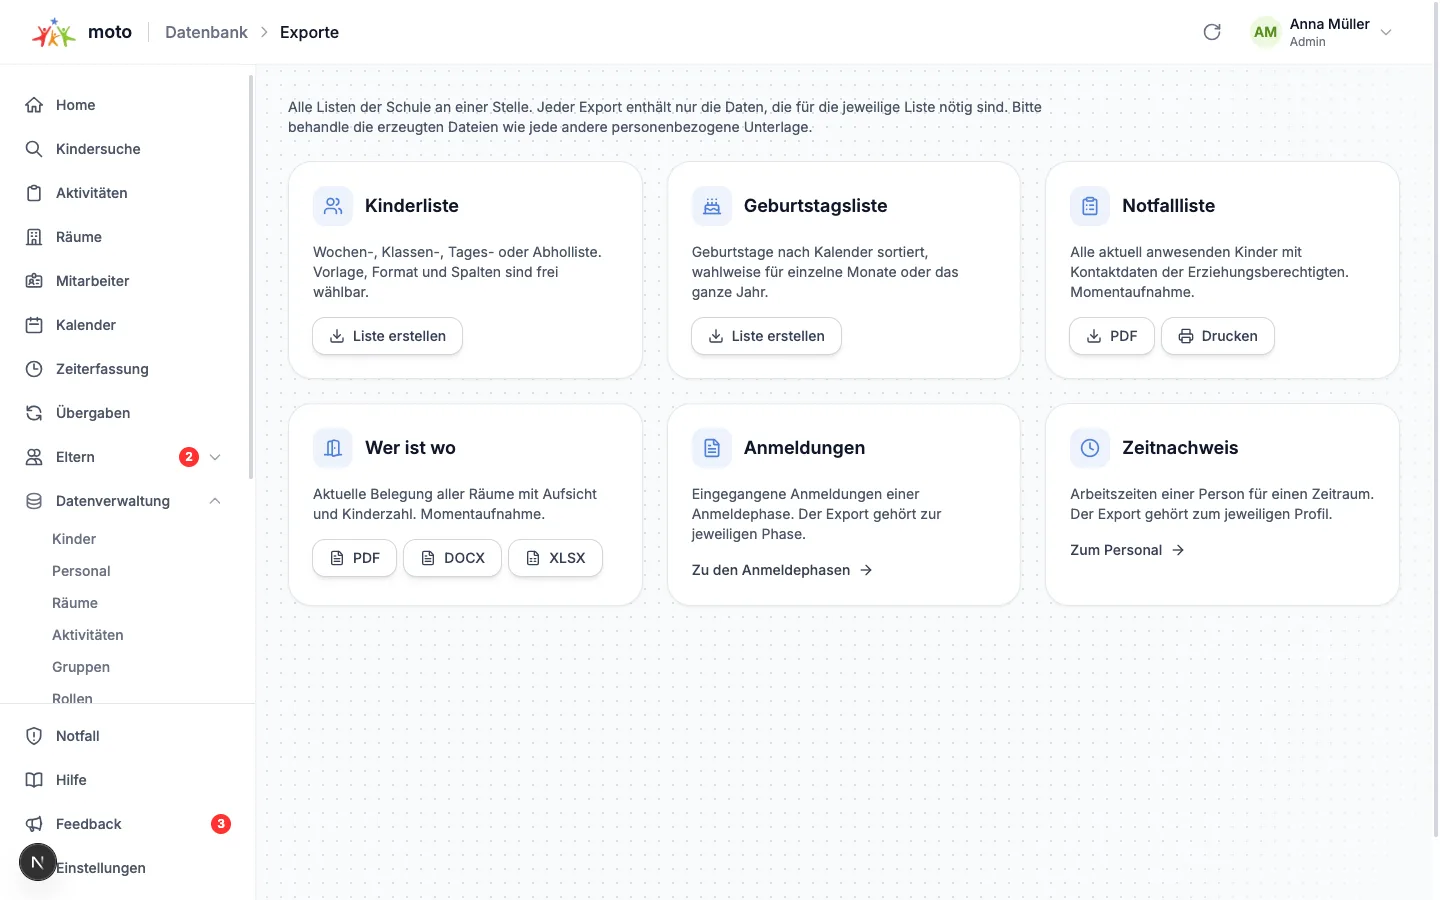
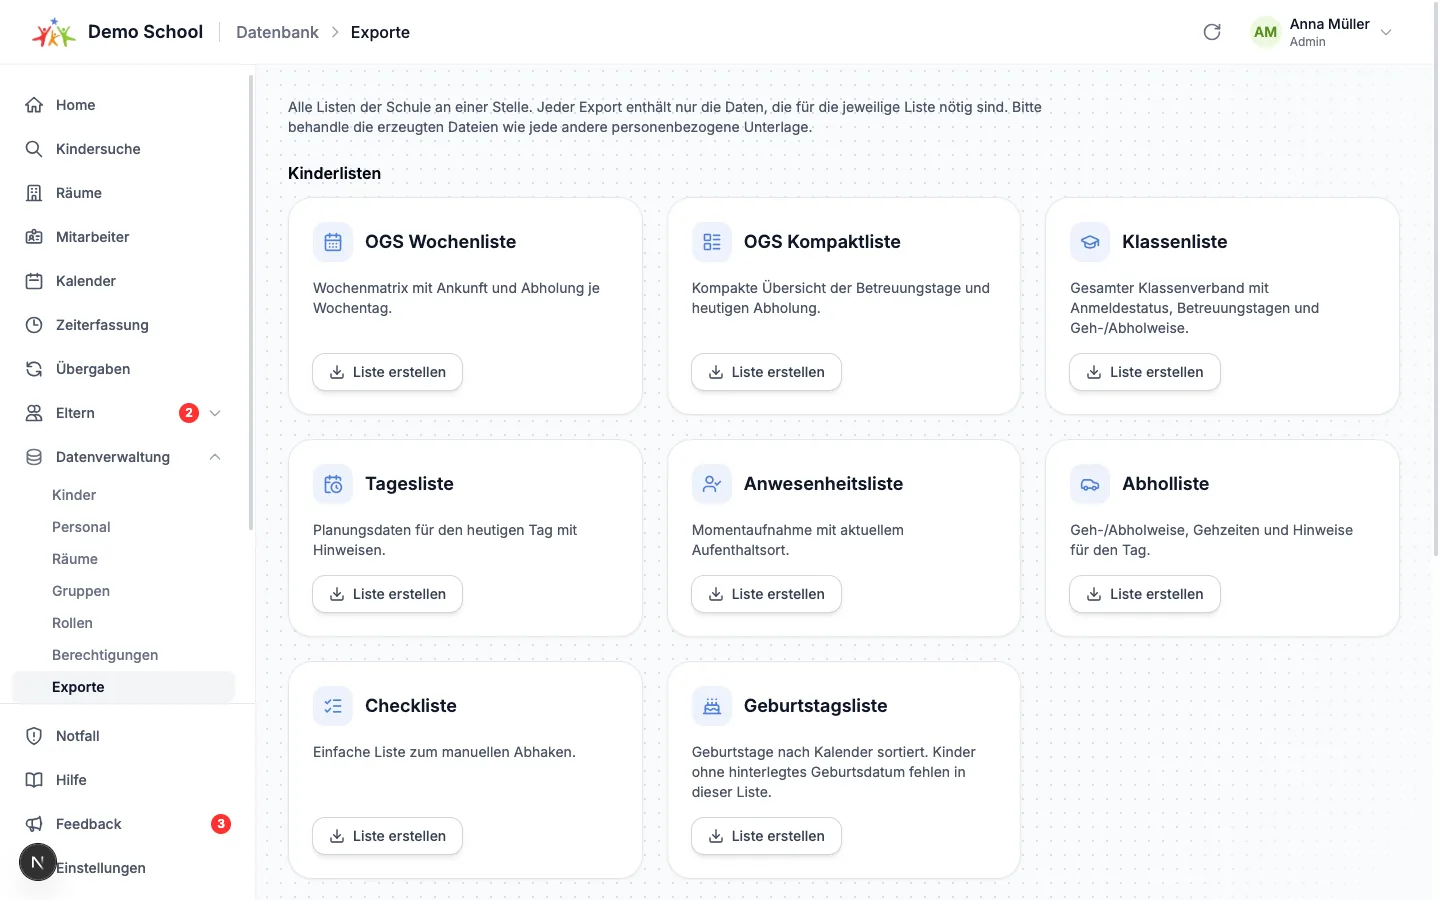
docs(help): update the export guide for the sectioned page
The listen-exportieren step now describes the per-list cards under the
Kinderlisten / Momentaufnahmen / Auf anderen Seiten sections, and the
screenshot is re-captured to match.

diff --git a/frontend/src/components/help/guide-data.ts b/frontend/src/components/help/guide-data.ts
@@ -879,11 +879,10 @@ export const appChapters: readonly GuideChapter[] = [
           "Der zentrale Einstieg für alle Listen der Schule: Kinderlisten, die Geburtstagsliste, die Notfallliste und die Raumbelegung - an einer Stelle statt verstreut über die einzelnen Seiten.",
         steps: [
           "`Datenverwaltung` -> `Exporte` öffnen.",
-          "`Kinderliste` erstellt dieselben Listen wie der Export in der `Kindersuche`: Vorlage wählen (zum Beispiel `OGS Wochenliste`, `Klassenliste`, `Tagesliste` oder `Abholliste`), Format festlegen und bei Bedarf einzelne Spalten an- oder abwählen.",
-          "`Geburtstagsliste` gibt die Geburtstage nach Kalender sortiert aus. Voreingestellt ist der aktuelle Monat; über die Monatsfelder wählst du weitere Monate dazu oder ab, mit `Ganzes Jahr` erhältst du alle Geburtstage des Jahres.",
-          "`Notfallliste` erzeugt die Liste aller aktuell anwesenden Kinder mit den Kontaktdaten der Erziehungsberechtigten, wahlweise als PDF oder direkt zum Drucken.",
-          "`Wer ist wo` gibt die aktuelle Belegung aller Räume mit Aufsicht und Kinderzahl aus.",
-          "`Anmeldungen` und `Zeitnachweis` führen auf die Seite, zu der der jeweilige Export gehört: Anmeldungen werden je Anmeldephase exportiert, Zeitnachweise je Person.",
+          "Unter `Kinderlisten` hat jede Liste eine eigene Karte (`OGS Wochenliste`, `Klassenliste`, `Tagesliste`, `Abholliste`, `Checkliste`, `Geburtstagsliste` und weitere). `Liste erstellen` öffnet den Export direkt mit der passenden Vorlage; dort legst du nur noch das Format fest. Die freie Kombination aus beliebiger Vorlage und einzeln zu- oder abgewählten Spalten findest du weiterhin in der `Kindersuche` unter `Exportieren`.",
+          "Die Karte `Geburtstagsliste` gibt die Geburtstage nach Kalender sortiert aus. Voreingestellt ist der aktuelle Monat; über die Monatsfelder wählst du weitere Monate dazu oder ab, mit `Ganzes Jahr` erhältst du alle Geburtstage des Jahres.",
+          "Unter `Momentaufnahmen` erzeugt `Notfallliste` die Liste aller aktuell anwesenden Kinder mit den Kontaktdaten der Erziehungsberechtigten, wahlweise als PDF oder direkt zum Drucken. `Wer ist wo` gibt die aktuelle Belegung aller Räume mit Aufsicht und Kinderzahl aus.",
+          "Unter `Auf anderen Seiten` führen `Anmeldungen` und `Zeitnachweis` auf die Seite, zu der der jeweilige Export gehört: Anmeldungen werden je Anmeldephase exportiert, Zeitnachweise je Person.",
         ],
         callout: {
           title: "Kinder ohne Geburtsdatum fehlen in der Geburtstagsliste",
@@ -891,7 +890,7 @@ export const appChapters: readonly GuideChapter[] = [
           tone: "blue",
         },
         screenshot:
-          "Exporte-Seite der Datenverwaltung mit den Karten Kinderliste, Geburtstagsliste, Notfallliste und Wer ist wo.",
+          "Exporte-Seite der Datenverwaltung mit den Abschnitten Kinderlisten, Momentaufnahmen und Auf anderen Seiten.",
         image: "/help/screens/exporte.webp",
       },
       {
